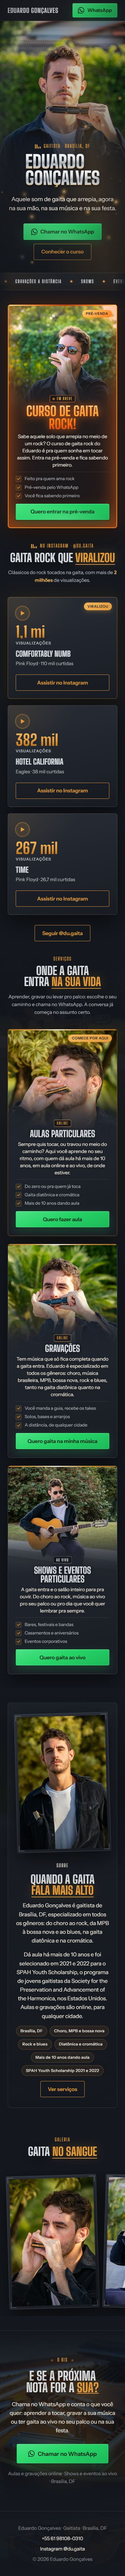
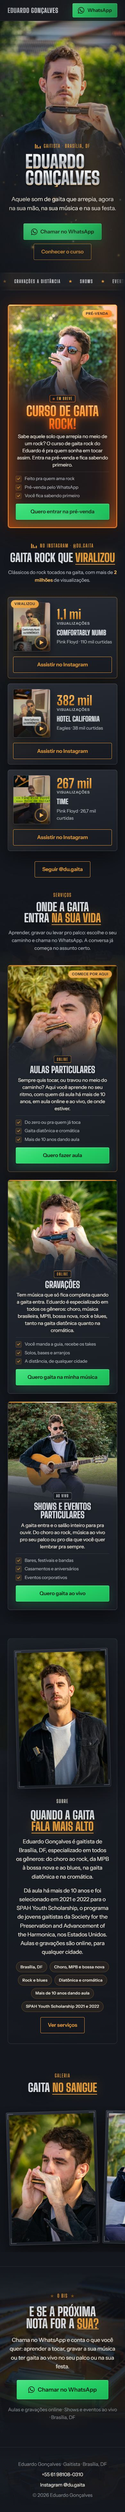
Hero com a cabeça na altura do nome e gaita sempre à vista; capas nos vídeos do Instagram

diff --git a/css/estilo.css b/css/estilo.css
@@ -367,34 +367,51 @@ body::before {
 }
 
 /* ---------- Vídeos do Instagram: o setlist que viralizou ---------- */
-/* Sem imitar a interface do Instagram: cartões no visual da página, com os números reais e o link pro post. */
+/* Sem imitar a interface do Instagram: faixas no visual da página, com a capa do post, os números reais e o link.
+   As capas saíram de um print do perfil (242 px de largura), então ficam pequenas pra não perderem nitidez. */
 .secao-videos { padding-bottom: 0; }
 .secao-videos .secundario strong { color: var(--mel-claro); font-weight: 600; }
 .conta { font-variant-numeric: tabular-nums; }
-.reels { display: grid; gap: 1.25rem; max-width: 1000px; margin: 0 auto; }
-.reel { position: relative; display: flex; flex-direction: column; gap: 0.45rem; padding: 1.75rem 1.5rem 1.5rem; overflow: hidden;
-  background: radial-gradient(ellipse 90% 70% at 0% 0%, rgba(227, 154, 58, 0.12), transparent 70%), linear-gradient(168deg, #272C36, var(--palco) 60%, #181B22);
+.reels { display: grid; gap: 1rem; max-width: 1000px; margin: 0 auto; }
+.reel { position: relative; display: grid; grid-template-columns: 7.25rem minmax(0, 1fr); align-items: center; gap: 1rem 1.25rem; padding: 1rem; overflow: hidden;
+  background: radial-gradient(ellipse 70% 90% at 0% 50%, rgba(227, 154, 58, 0.1), transparent 70%), linear-gradient(168deg, #272C36, var(--palco) 60%, #181B22);
   border: 1px solid rgba(215, 218, 222, 0.16); border-radius: 8px; box-shadow: 0 1px 0 rgba(255, 255, 255, 0.06) inset, 0 24px 60px rgba(0, 0, 0, 0.5); }
-.reel:hover { transform: translateY(-5px); border-color: var(--linha-mel); }
+.reel:hover { transform: translateY(-4px); border-color: var(--linha-mel); }
 .reel--topo { border-color: rgba(227, 154, 58, 0.5); box-shadow: 0 1px 0 rgba(255, 255, 255, 0.08) inset, 0 24px 60px rgba(0, 0, 0, 0.5), 0 0 50px rgba(227, 154, 58, 0.14); }
-/* Botão de play desenhado em CSS: disco de cromo com o triângulo em mel, pulsando como um ponto ao vivo. */
-.reel__play { position: relative; width: 2.6rem; height: 2.6rem; margin-bottom: 0.5rem; border-radius: 50%; border: 1px solid var(--linha-mel); background: rgba(227, 154, 58, 0.1); }
-.reel__play::before { content: ""; position: absolute; top: 50%; left: 54%; translate: -50% -50%; border-style: solid; border-width: 0.45rem 0 0.45rem 0.75rem; border-color: transparent transparent transparent var(--mel); }
+/* A capa: vertical, como o post, com o play por cima. */
+.reel__capa { position: relative; display: block; aspect-ratio: 242 / 316; overflow: hidden; border-radius: 6px; border: 1px solid rgba(215, 218, 222, 0.18); box-shadow: 0 10px 26px rgba(0, 0, 0, 0.5); }
+.reel__capa img { width: 100%; height: 100%; object-fit: cover; filter: saturate(1.05) brightness(0.86); transition: filter 0.3s; }
+.reel:hover .reel__capa img { filter: saturate(1.1) brightness(1); }
+.reel__capa::after { content: ""; position: absolute; inset: 0; background: linear-gradient(to top, rgba(20, 23, 29, 0.55), transparent 45%); pointer-events: none; }
+.reel__play { position: absolute; z-index: 1; right: 0.5rem; bottom: 0.5rem; width: 2.4rem; height: 2.4rem; border-radius: 50%; border: 1px solid rgba(242, 182, 92, 0.8); background: rgba(20, 23, 29, 0.55); box-shadow: 0 4px 18px rgba(0, 0, 0, 0.5); }
+.reel__play::before { content: ""; position: absolute; top: 50%; left: 54%; translate: -50% -50%; border-style: solid; border-width: 0.45rem 0 0.45rem 0.75rem; border-color: transparent transparent transparent var(--mel-claro); }
 .reel__play::after { content: ""; position: absolute; inset: -1px; border-radius: 50%; border: 1px solid var(--mel); animation: play-onda 2.4s ease-out infinite; }
 @keyframes play-onda { 0% { opacity: 0.8; transform: scale(1); } 100% { opacity: 0; transform: scale(1.7); } }
-.reel__views { display: flex; flex-direction: column; align-items: flex-start; gap: 0.45rem; font-family: var(--display); font-weight: 800; font-size: clamp(3rem, 6.5vw, 4.25rem); line-height: 0.9; color: var(--mel); }
+.reel__info { display: flex; flex-direction: column; gap: 0.35rem; min-width: 0; }
+.reel__views { display: flex; flex-direction: column; align-items: flex-start; gap: 0.3rem; font-family: var(--display); font-weight: 800; font-size: clamp(2.5rem, 6vw, 3.75rem); line-height: 0.9; color: var(--mel); }
 @supports (-webkit-background-clip: text) or (background-clip: text) {
   .reel__views .conta { background-image: linear-gradient(180deg, var(--mel-claro), var(--mel) 55%, var(--mel-queimado)); -webkit-background-clip: text; background-clip: text; -webkit-text-fill-color: transparent; }
 }
-.reel__views small { font: 600 0.75rem/1 var(--corpo); letter-spacing: 0.1em; text-transform: uppercase; color: var(--cinza-claro); }
-.reel__titulo { margin-top: 0.5rem; font-family: var(--display); font-weight: 800; font-size: clamp(1.5rem, 2.6vw, 1.9rem); line-height: 1; text-transform: uppercase; color: var(--cromo); }
+.reel__views small { font: 600 0.7rem/1 var(--corpo); letter-spacing: 0.1em; text-transform: uppercase; color: var(--cinza-claro); }
+.reel__titulo { margin-top: 0.45rem; font-family: var(--display); font-weight: 800; font-size: clamp(1.35rem, 2.6vw, 1.9rem); line-height: 1; text-transform: uppercase; color: var(--cromo); }
 .reel:hover .reel__titulo { color: var(--mel); }
-.reel__artista { color: var(--cinza-claro); font-size: 0.92rem; }
-.reel .botao { margin-top: auto; }
-.reel .reel__artista { margin-bottom: 0.9rem; }
+.reel__artista { color: var(--cinza-claro); font-size: 0.88rem; }
+.reel__botao { grid-column: 1 / -1; display: flex; width: 100%; white-space: nowrap; }
+/* O selo vai em cima da capa, pra nunca cobrir o número. */
+.reel .cartao__selo { top: 0.55rem; right: auto; left: 0.55rem; }
 .reels__perfil { display: flex; justify-content: center; margin-top: 2rem; }
+/* No computador cada vídeo é uma linha do setlist: capa, números e o botão à direita. */
 @media (min-width: 720px) {
-  .reels { grid-template-columns: repeat(3, minmax(0, 1fr)); }
+  .reel { grid-template-columns: 10.5rem minmax(0, 1fr) auto; gap: 2rem; padding: 1rem 1.75rem 1rem 1rem; }
+  .reel__botao { grid-column: auto; width: auto; }
+  .reel .cartao__selo { top: 1.5rem; left: 1.5rem; }
+}
+/* Com espaço, o número fica ao lado do título, como numa linha de placar. */
+@media (min-width: 900px) {
+  .reel__info { display: grid; grid-template-columns: 13rem minmax(0, 1fr); column-gap: 2rem; align-items: center; }
+  .reel__views { grid-row: 1 / span 2; }
+  .reel__titulo { margin-top: 0; align-self: end; }
+  .reel__artista { align-self: start; }
 }
 
 /* ---------- Sobre ---------- */
@@ -554,8 +571,14 @@ body::before {
 @media (min-width: 900px) {
   .hero { text-align: left; }
   /* A foto ocupa a direita: o rosto fica fora da coluna do nome e a borda esquerda some no escuro. */
-  .hero .fundo { left: 56%; -webkit-mask-image: linear-gradient(to right, transparent 0, #000 22%); mask-image: linear-gradient(to right, transparent 0, #000 22%); }
+  /* Largura limitada pela altura da tela (77 % dela), pra gaita não sair por baixo numa tela larga e baixa. */
+  .hero .fundo { left: auto; right: 0; width: min(44%, calc((100svh - var(--barra)) * 0.77)); -webkit-mask-image: linear-gradient(to right, transparent 0, #000 22%); mask-image: linear-gradient(to right, transparent 0, #000 22%); }
   .hero .fundo img { object-position: 50% 0%; }
+  /* O topo do nome fica na altura do topo da cabeça. A foto vai presa pelo topo e a cabeça começa a 13,2 % da
+     altura desenhada dela. Quando a largura manda, isso é 0,198 × a largura da foto: 8,71 % (de 44 %; porcentagem
+     de padding é da largura) ou 15,25svh − 9,76px (de 77 % da altura do hero). Quando a altura manda, 13,2 % da
+     altura do hero. O nome fica 33 px abaixo do topo do sobretítulo. Tudo em CSS: nada se mexe depois de pintar. */
+  .hero { align-items: start; padding-top: max(2rem, calc(max(min(8.71%, 15.25svh - 9.76px), 13.2svh - 8.45px) - 33px)); }
   .hero-veu { background: linear-gradient(100deg, rgba(20, 23, 29, 0.85) 0%, rgba(20, 23, 29, 0.5) 40%, rgba(20, 23, 29, 0.1) 68%, rgba(20, 23, 29, 0.25) 100%), linear-gradient(to bottom, transparent 70%, var(--veludo) 100%); }
   .hero-conteudo { align-items: flex-start; }
   .hero-conteudo .sobretitulo { justify-content: flex-start; }
@@ -570,6 +593,13 @@ body::before {
     .com-fundo .fundo { inset: -7% 0; animation: deriva linear both; animation-timeline: view(); }
   }
 }
+
+/* ---------- Telas bem largas: a foto do hero fica junto da coluna do texto ---------- */
+@media (min-width: 1600px) {
+  .hero .fundo { right: max(0px, calc((100% - var(--largura)) / 2 - 3rem));
+    -webkit-mask-image: linear-gradient(to right, transparent 0, #000 22%, #000 80%, transparent 100%); mask-image: linear-gradient(to right, transparent 0, #000 22%, #000 80%, transparent 100%); }
+}
+
 @keyframes deriva { from { transform: translateY(-4%); } to { transform: translateY(4%); } }
 
 /* ---------- Ponteiro grosso: efeitos de hover só onde há ponteiro ---------- */

diff --git a/index.html b/index.html
@@ -163,25 +163,40 @@
       <ul class="reels">
         <li class="reel reel--topo revela">
           <span class="cartao__selo revela revela--carimbo" style="--d:420ms">Viralizou</span>
-          <span class="reel__play" aria-hidden="true"></span>
-          <p class="reel__views"><span class="conta">1,1 mi</span> <small>visualizações</small></p>
-          <h3 class="reel__titulo">Comfortably Numb</h3>
-          <p class="reel__artista">Pink Floyd · 110 mil curtidas</p>
-          <a class="botao botao-secundario botao-bloco" href="https://www.instagram.com/reel/DdHyebhJ4ni/" target="_blank" rel="noopener" aria-label="Assistir no Instagram: Comfortably Numb, abre em nova aba">Assistir no Instagram</a>
+          <a class="reel__capa" href="https://www.instagram.com/reel/DdHyebhJ4ni/" target="_blank" rel="noopener" tabindex="-1" aria-hidden="true">
+            <img src="img/reel-comfortably-numb.webp" width="242" height="316" alt="" loading="lazy" decoding="async">
+            <span class="reel__play"></span>
+          </a>
+          <div class="reel__info">
+            <p class="reel__views"><span class="conta">1,1 mi</span> <small>visualizações</small></p>
+            <h3 class="reel__titulo">Comfortably Numb</h3>
+            <p class="reel__artista">Pink Floyd · 110 mil curtidas</p>
+          </div>
+          <a class="botao botao-secundario reel__botao" href="https://www.instagram.com/reel/DdHyebhJ4ni/" target="_blank" rel="noopener" aria-label="Assistir no Instagram: Comfortably Numb, abre em nova aba">Assistir no Instagram</a>
         </li>
         <li class="reel revela" style="--d:120ms">
-          <span class="reel__play" aria-hidden="true"></span>
-          <p class="reel__views"><span class="conta">382 mil</span> <small>visualizações</small></p>
-          <h3 class="reel__titulo">Hotel California</h3>
-          <p class="reel__artista">Eagles · 38 mil curtidas</p>
-          <a class="botao botao-secundario botao-bloco" href="https://www.instagram.com/reel/DdcoILcJWIk/" target="_blank" rel="noopener" aria-label="Assistir no Instagram: Hotel California, abre em nova aba">Assistir no Instagram</a>
+          <a class="reel__capa" href="https://www.instagram.com/reel/DdcoILcJWIk/" target="_blank" rel="noopener" tabindex="-1" aria-hidden="true">
+            <img src="img/reel-hotel-california.webp" width="242" height="316" alt="" loading="lazy" decoding="async">
+            <span class="reel__play"></span>
+          </a>
+          <div class="reel__info">
+            <p class="reel__views"><span class="conta">382 mil</span> <small>visualizações</small></p>
+            <h3 class="reel__titulo">Hotel California</h3>
+            <p class="reel__artista">Eagles · 38 mil curtidas</p>
+          </div>
+          <a class="botao botao-secundario reel__botao" href="https://www.instagram.com/reel/DdcoILcJWIk/" target="_blank" rel="noopener" aria-label="Assistir no Instagram: Hotel California, abre em nova aba">Assistir no Instagram</a>
         </li>
         <li class="reel revela" style="--d:240ms">
-          <span class="reel__play" aria-hidden="true"></span>
-          <p class="reel__views"><span class="conta">267 mil</span> <small>visualizações</small></p>
-          <h3 class="reel__titulo">Time</h3>
-          <p class="reel__artista">Pink Floyd · 26,7 mil curtidas</p>
-          <a class="botao botao-secundario botao-bloco" href="https://www.instagram.com/reel/DcjzGwhpj3A/" target="_blank" rel="noopener" aria-label="Assistir no Instagram: Time, abre em nova aba">Assistir no Instagram</a>
+          <a class="reel__capa" href="https://www.instagram.com/reel/DcjzGwhpj3A/" target="_blank" rel="noopener" tabindex="-1" aria-hidden="true">
+            <img src="img/reel-time.webp" width="242" height="316" alt="" loading="lazy" decoding="async">
+            <span class="reel__play"></span>
+          </a>
+          <div class="reel__info">
+            <p class="reel__views"><span class="conta">267 mil</span> <small>visualizações</small></p>
+            <h3 class="reel__titulo">Time</h3>
+            <p class="reel__artista">Pink Floyd · 26,7 mil curtidas</p>
+          </div>
+          <a class="botao botao-secundario reel__botao" href="https://www.instagram.com/reel/DcjzGwhpj3A/" target="_blank" rel="noopener" aria-label="Assistir no Instagram: Time, abre em nova aba">Assistir no Instagram</a>
         </li>
       </ul>
       <div class="reels__perfil revela"><a class="botao botao-secundario" href="https://www.instagram.com/du.gaita/" target="_blank" rel="noopener" aria-label="Seguir @du.gaita no Instagram: abre em nova aba">Seguir @du.gaita</a></div>

diff --git a/docs/spec.md b/docs/spec.md
@@ -83,7 +83,7 @@ Uma página, rolagem vertical, nesta ordem:
 | 0 | Barra superior | Nome em texto, à esquerda; botão compacto "WhatsApp", à direita. Fica fixa no topo e some ao rolar pra baixo, volta ao rolar pra cima. | 1 |
 | 1 | Hero | Foto edu-13 (de frente pra câmera, com a gaita cromática na mão, abaixo do queixo) atrás de um véu leve: no desktop ocupa os 44 % da direita, com o rosto fora da coluna do nome; no celular ocupa o alto da tela e o texto fica embaixo. Luzes de palco e faíscas; com luzes de palco e faíscas; por cima, sobretítulo "Gaitista de rock · Brasília, DF" com um equalizador pulsando, nome em cromo (assinatura visual) entrando como carimbo, frase de posicionamento palavra por palavra, botão primário de WhatsApp e botão secundário "Ver serviços". | 1 |
 | 1b | Faixa rolante | Setlist decorativo passando em loop: "Aulas online ★ Gravações a distância ★ Shows ★ Eventos particulares ★ Brasília, DF ★ Rock e blues ★ Choro e bossa nova ★ MPB ★ Diatônica e cromática". Escondida de leitores de tela. | 1 |
-| 1d | Vídeos | Seção "Gaita rock que viralizou", logo depois do curso: sobretítulo "No Instagram · @du.gaita", linha "Clássicos do rock tocados na gaita, com mais de 2 milhões de visualizações" e três cartões com os vídeos mais vistos (Comfortably Numb, Pink Floyd, 1,1 mi de visualizações e 110 mil curtidas; Hotel California, Eagles, 382 mil e 38 mil; Time, Pink Floyd, 267 mil e 26,7 mil), cada um com o botão "Assistir no Instagram" pro post; botão "Seguir @du.gaita". Números contados do zero quando entram na tela. Sem imitar a interface do Instagram e sem tocar o vídeo na página (a música é de terceiros: o post fica no Instagram, que tem a licença). | 1 |
+| 1d | Vídeos | Seção "Gaita rock que viralizou", logo depois do curso: sobretítulo "No Instagram · @du.gaita", linha "Clássicos do rock tocados na gaita, com mais de 2 milhões de visualizações" e os três vídeos mais vistos em linhas de setlist, cada uma com a capa do post (recortada de um print do perfil, pequena por causa da resolução), o play e (Comfortably Numb, Pink Floyd, 1,1 mi de visualizações e 110 mil curtidas; Hotel California, Eagles, 382 mil e 38 mil; Time, Pink Floyd, 267 mil e 26,7 mil), cada um com o botão "Assistir no Instagram" pro post; botão "Seguir @du.gaita". Números contados do zero quando entram na tela. Sem imitar a interface do Instagram e sem tocar o vídeo na página (a música é de terceiros: o post fica no Instagram, que tem a licença). | 1 |
 | 2 | Serviços | Sobretítulo "Serviços", título "Onde a gaita entra na sua vida", linha de apoio "Aprender, gravar ou levar pro palco: escolhe o seu caminho e chama no WhatsApp. A conversa já começa no assunto certo." Os quatro serviços da seção 4 em cartões (dois por linha a partir de 620 px), cada um com uma foto do ensaio no topo e seu botão de WhatsApp. Fundo: foto edu-33 (sentado com violão e gaita no suporte). | 1 |
 | 3 | Sobre | Sobretítulo "Sobre", título "Quando a gaita fala mais alto", foto edu-32 numa moldura inclinada com cantoneiras de cromo, texto curto de apresentação, fichas ("Brasília, DF", "Rock e blues", "Choro, MPB e bossa nova", "Diatônica e cromática", "Aulas e gravações online") e botão "Ver serviços". Fundo: foto edu-27 (a mão com a gaita cromática). Genérico na entrega 1, com fatos do currículo na entrega 2. | 1 (texto genérico), 2 (texto final) |
 | 4 | Galeria | Sobretítulo "Galeria", título "Gaita no sangue", quatro fotos do ensaio (edu-22, edu-11, edu-36, edu-2) em molduras inclinadas: grade de quatro no desktop, faixa com rolagem horizontal no celular. Sem lightbox. Entrou na entrega 1 em 27/10/2026. | 1 |
@@ -402,6 +402,7 @@ versão em outro idioma; app; integração com Instagram ou Spotify além de lin
 | 27/10/2026 | A pedido: foto do hero e do cartão de aulas trocadas (hero edu-9, aulas edu-14); cartão de eventos com edu-36, de óculos escuros (a edu-34 foi pra galeria); fotos presas pelo topo pra não cortar a cabeça; nos cartões a foto cobre o alto do cartão e some de vez até a metade dele, com o texto abaixo, sobre o fundo liso (ajustado no mesmo dia porque o texto sobre a foto ficava ruim de ler). No celular a foto é um bloco de altura fixa no topo e o texto fica junto embaixo, com linhas mais apertadas; etiqueta de formato com fundo escuro; cada marca e cada botão numa linha só. |
 | 03/11/2026 | Cartão "Curso de gaita rock!" como primeiro produto, em breve, com mensagem própria de pré-venda no WhatsApp e animações de fogo: chamas em canvas (`js/fogo.js`), brasa nas bordas, título tremulando, fita acelerada. |
 | 03/11/2026 | Fogo tirado do cartão do curso: sem as chamas em canvas (`js/fogo.js` saiu), ficam a borda, o brilho de dentro e o brilho do título pulsando no mesmo compasso. Shows e eventos particulares num cartão só, largo e com a foto edu-36 à direita; a edu-35 saiu do repositório. |
+| 10/11/2026 | Hero no computador: o topo do nome fica na altura do topo da cabeça (posição calculada em CSS a partir da largura da foto), e a foto tem largura limitada a 77 % da altura da tela, pra gaita não sair por baixo; acima de 1600 px a foto fica junto da coluna do texto. Vídeos com a capa de cada post. |
 | 10/11/2026 | Seção de vídeos do Instagram (@du.gaita) com os três reels mais vistos e o total de visualizações, em cartões no visual da página com link pro post; Instagram também no rodapé. |
 | 10/11/2026 | Pedidos do cliente (áudios de 27/10/2026): nome trocado para Eduardo Gonçalves; o rock fica restrito ao curso, que ganhou seção própria logo depois da faixa rolante, e gravações, shows e sobre ficam ecléticos; hero com a edu-13, rosto e gaita à vista (a edu-9 saiu), e aulas com a edu-26 (a edu-14 saiu, por ser quase igual à do hero). Fatos novos na página: mais de 10 anos dando aula e o SPAH Youth Scholarship de 2021 e 2022. |
 | 06/11/2026 | Todos os textos reescritos com apelo emocional, a pedido: curso falando de gaita rock, gravações com a especialização em todos os gêneros, novos títulos em serviços, sobre e chamada final. Nomes dos botões e mensagens do WhatsApp sem mudança. |

diff --git a/docs/roadmap.md b/docs/roadmap.md
@@ -100,6 +100,7 @@ Legenda: `[x]` feito e verificado, `[ ]` a fazer, `[~]` feito mas com verificaç
 - [x] Rock restrito ao curso, que ganhou seção própria; gravações, shows e sobre ecléticos.
 - [x] Hero com foto de rosto e gaita à vista (edu-13); aulas com a edu-26.
 - [x] Mais de 10 anos dando aula e SPAH Youth Scholarship 2021 e 2022 no cartão de aulas e no sobre.
+- [x] Hero no computador com o topo da cabeça na altura do nome, em qualquer largura, e a gaita sempre à vista; vídeos com a capa de cada post (pedido de 10/11/2026).
 - [ ] Data de lançamento do curso e decisão sobre lista de e-mail (spec, pendência P11).
 - [x] Seção "Gaita rock que viralizou" com os três vídeos mais vistos do Instagram @du.gaita e mais de 2 milhões de visualizações; Instagram no rodapé (spec, pendências P12 e P2).
 - Verificado em 10/11/2026: QA nas cinco larguras sem erro, nove botões com a mensagem certa, marcas e botões numa linha só; Lighthouse local em três rodadas, 98 a 99 em desempenho e 100 nas outras três; LCP 2,3 s; CLS 0. Repetido com a seção de vídeos: mesmo resultado.
